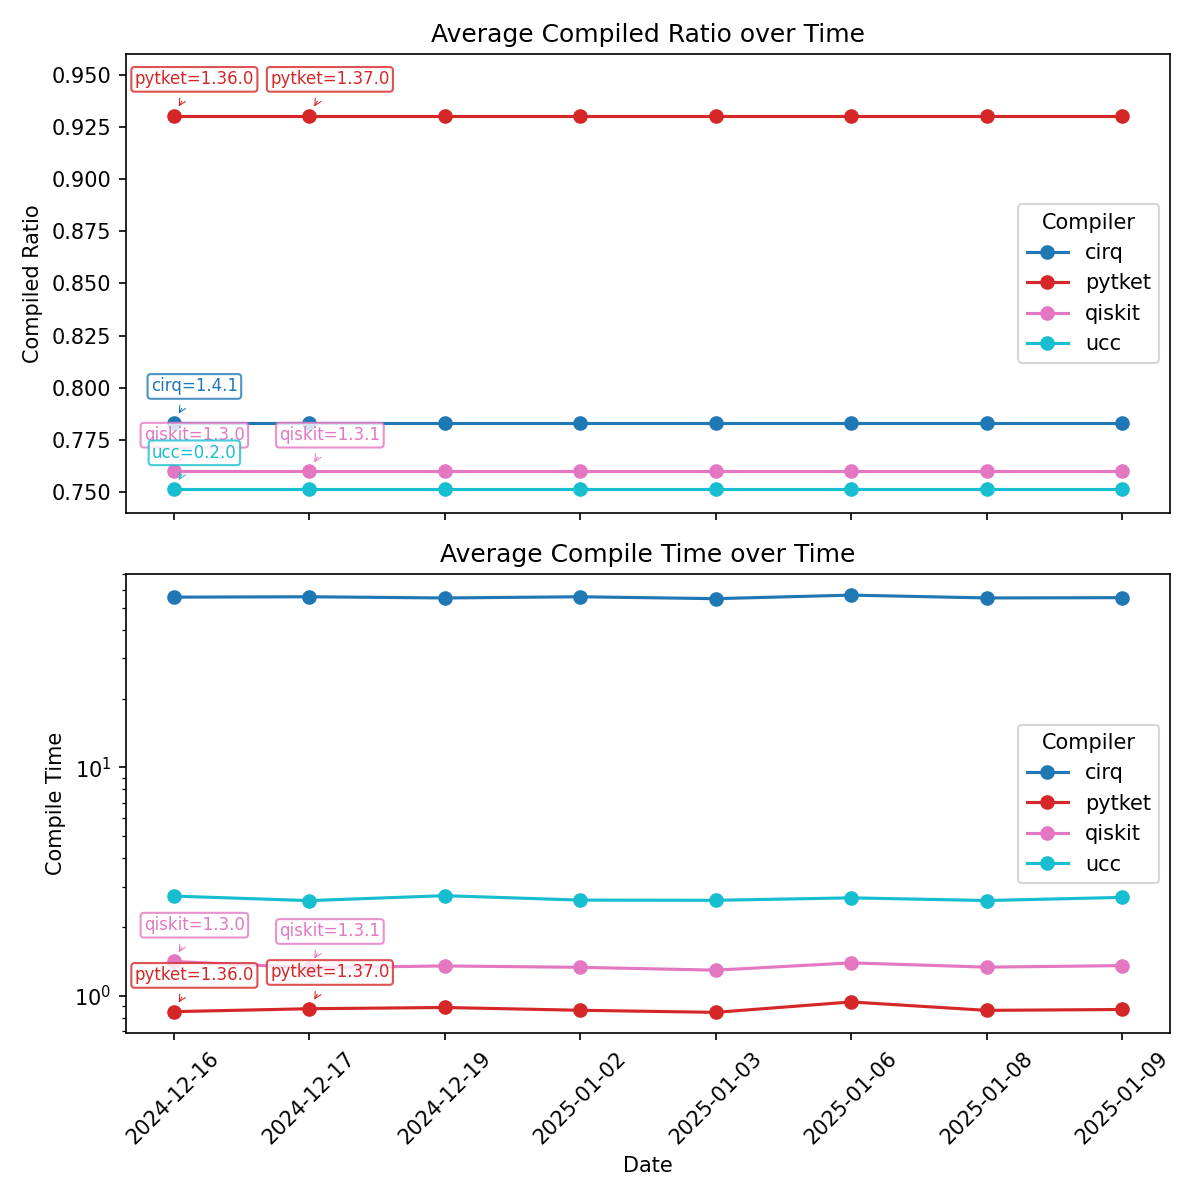
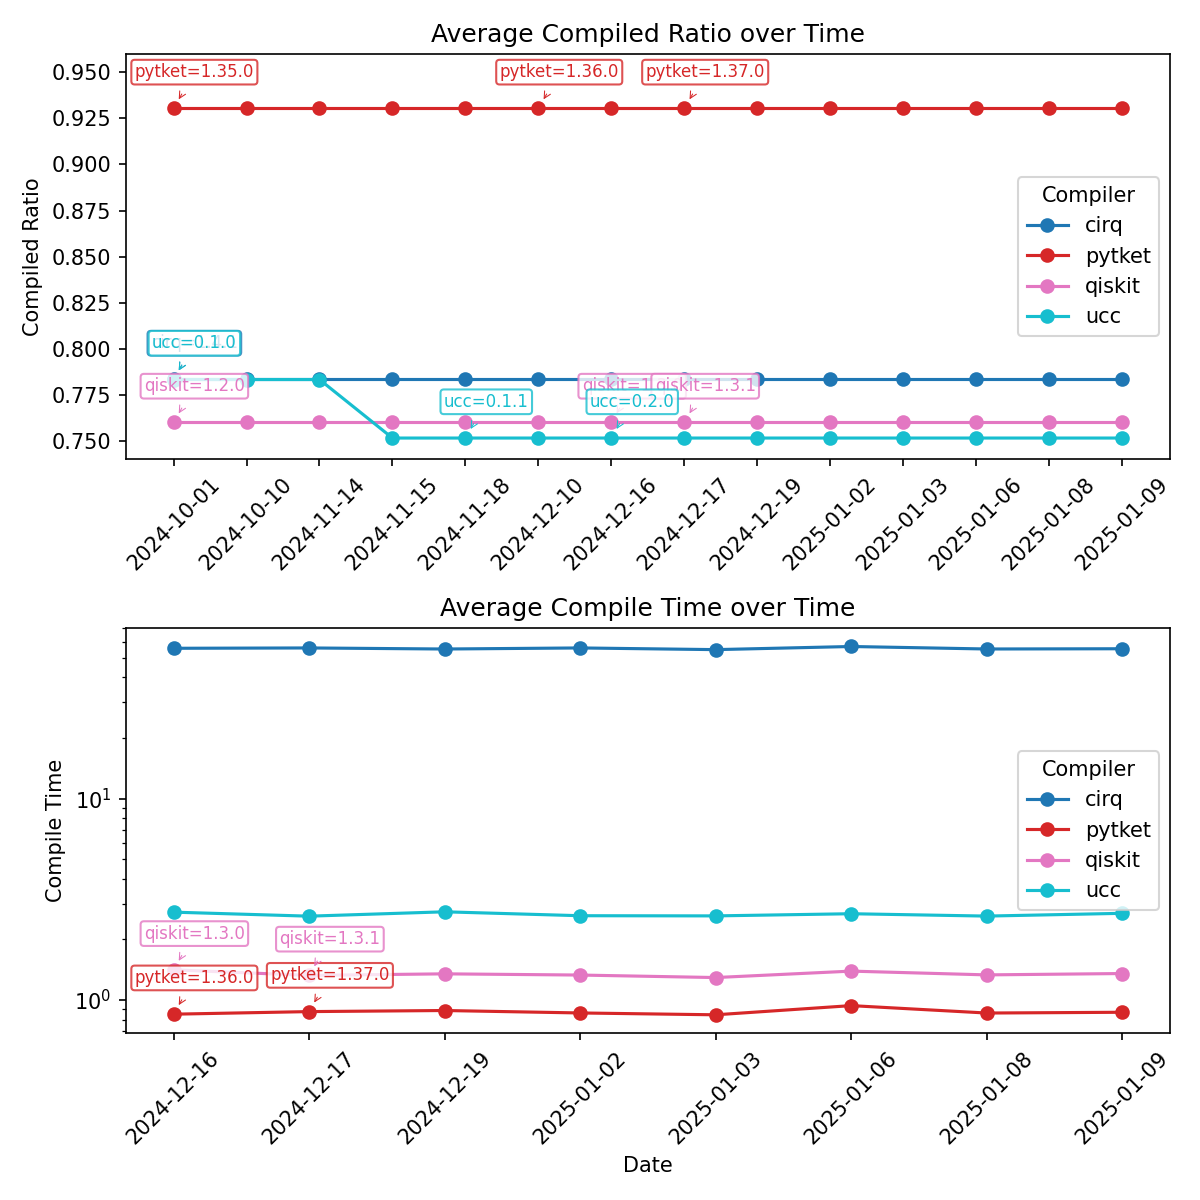
Bring back datafiles from before GH Action pipeline and plot compiled ratio only

diff --git a/benchmarks/scripts/plot_avg_benchmarks_over_time.py b/benchmarks/scripts/plot_avg_benchmarks_over_time.py
@@ -41,7 +41,10 @@ unique_compilers = sorted(df_dates["compiler"].unique())
 colormap = plt.get_cmap("tab10", len(unique_compilers))
 color_map = {compiler: colormap(i) for i, compiler in enumerate(unique_compilers)}
 
-fig, ax = plt.subplots(2, 1, figsize=(8, 8), sharex=True)
+fig, ax = plt.subplots(2, 1, figsize=(8, 8), sharex=False)
+# Rotate x labels on axes 0
+plt.setp(ax[0].xaxis.get_majorticklabels(), rotation=45)
+
 last_version_seen = {compiler: None for compiler in unique_compilers}
 all_texts = []
 
@@ -107,6 +110,9 @@ ax[0].legend(title="Compiler")
 # Expand axes to be slightly larger than data range
 ax[0].set_ylim(0.74, 0.96)
 
+# Plot only compiler runtime data after we created GitHub Actions pipeline for standardization
+avg_compile_time = avg_compile_time[avg_compile_time["date"] >= "2024-12-16"]
+
 # Repeat for avg_compile_time
 for compiler in unique_compilers:
     compiler_data = avg_compile_time[avg_compile_time["compiler"] == compiler]
@@ -118,14 +124,15 @@ for compiler in unique_compilers:
         linestyle="-",
         color=color_map[compiler]
     )
-
+    print('Compiler: ', compiler)
     # Store annotations for adjust_text
     annotations = []
     for index, row in compiler_data.iterrows():
         # Get the version for this date and compiler
         current_version = df_dates[(df_dates["compiler"] == compiler) & (df_dates["date"] == row["date"])][f'{compiler}_version'].values[0]
-        
+        print('Current version: ', current_version)
         if current_version != last_version_seen[compiler]:
+            print('New version: ', current_version)
             # Create annotation with textcoords="data" for better alignment
             annotation = ax[1].annotate(
                 f"{compiler}={current_version}",
@@ -164,7 +171,6 @@ for compiler in unique_compilers:
     #     expand_points=(1.01, 1.01),  # Limit how far annotations move from data points
     #     lim=100  # Limit iterations to avoid excessive adjustment time
     # )
-
 
 ax[1].set_title("Average Compile Time over Time")
 ax[1].set_ylabel("Compile Time")
